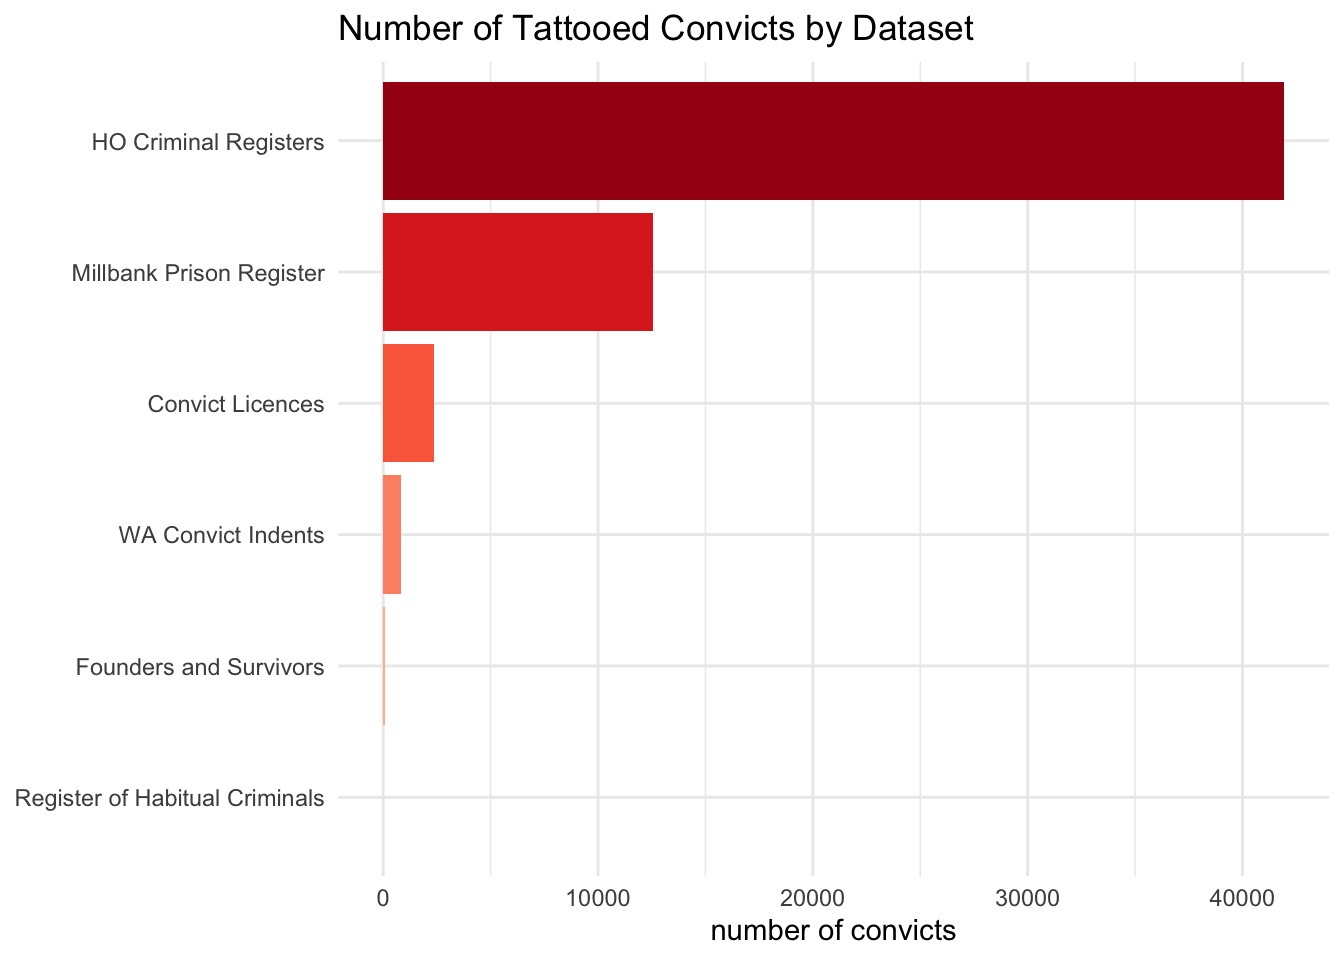
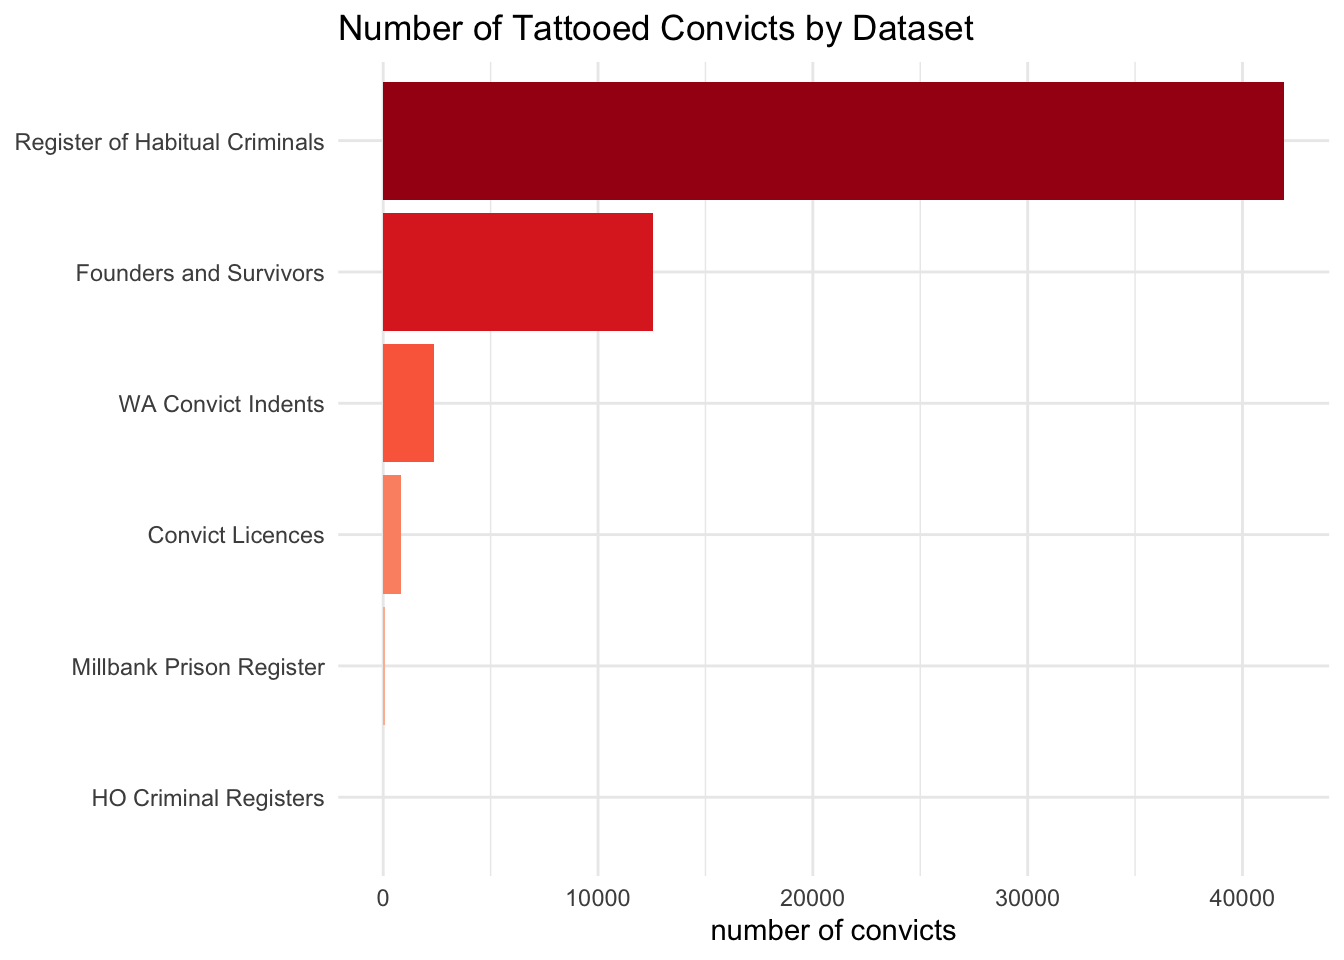
oops
Fixed order of dataviz labels.

diff --git a/post/2021/04/12/a-first-look-at-tattoos-in-the-digital-panopticon/index.html b/post/2021/04/12/a-first-look-at-tattoos-in-the-digital-panopticon/index.html
@@ -309,6 +309,12 @@ descriptions_data &lt;-
 ## 1 n         118850
 ## 2 u          46909
 ## 3 y          75448</code></pre>
+<p>And I can quickly plot that…</p>
+<pre class="r"><code>descriptions_data %&gt;%
+  count(hastattoo) %&gt;%
+  mutate(hastattoo = fct_relevel(hastattoo, &quot;n&quot;, &quot;y&quot;)) %&gt;%
+  ggplot(aes(x=hastattoo, y=n)) +
+  geom_col()</code></pre>
 <p><img src="https://CriminalTattoos.github.io/post/2021/04/12/a-first-look-at-tattoos-in-the-digital-panopticon/index_files/figure-html/unnamed-chunk-9-1.png" width="95%" /></p>
 <p><code>desc_count</code> is the number of separate records for the individual person to whom the record belongs. Out of curiosity, how many individuals have more than one record?</p>
 <pre class="r"><code>descriptions_data %&gt;%
@@ -428,12 +434,12 @@ descriptions_filter_mutate_group_summarise %&gt;%
 ## 5 mpr        68
 ## 6 hcr        12</code></pre>
 <p>Now the list of the dataset names for the labels.</p>
-<pre class="r"><code>dataset_labels &lt;- c(&quot;Register of Habitual Criminals&quot;, &quot;Founders and Survivors&quot;, &quot;WA Convict Indents&quot;, &quot;Convict Licences&quot;, &quot;Millbank Prison Register&quot;, &quot;HO Criminal Registers&quot;)
+<pre class="r"><code>dataset_labels &lt;- c(&quot;HO Criminal Registers&quot;, &quot;Millbank Prison Register&quot;, &quot;Convict Licences&quot;,  &quot;WA Convict Indents&quot;,  &quot;Founders and Survivors&quot;, &quot;Register of Habitual Criminals&quot;)
 
 dataset_labels</code></pre>
-<pre><code>## [1] &quot;Register of Habitual Criminals&quot; &quot;Founders and Survivors&quot;        
-## [3] &quot;WA Convict Indents&quot;             &quot;Convict Licences&quot;              
-## [5] &quot;Millbank Prison Register&quot;       &quot;HO Criminal Registers&quot;</code></pre>
+<pre><code>## [1] &quot;HO Criminal Registers&quot;          &quot;Millbank Prison Register&quot;      
+## [3] &quot;Convict Licences&quot;               &quot;WA Convict Indents&quot;            
+## [5] &quot;Founders and Survivors&quot;         &quot;Register of Habitual Criminals&quot;</code></pre>
 <p>To make the chart I use a package called {ggplot2} (which is included in the Tidyverse so I don’t need to load it separately). ggplot is advertised as “a grammar of graphics”, which should give a sense of how it works - rather like Tidyverse R as a whole. The different elements or layers of a chart are coded in separate steps, including</p>
 <ul>
 <li><strong>geom_</strong> to set the type of chart (bar, line, dot, etc)</li>
